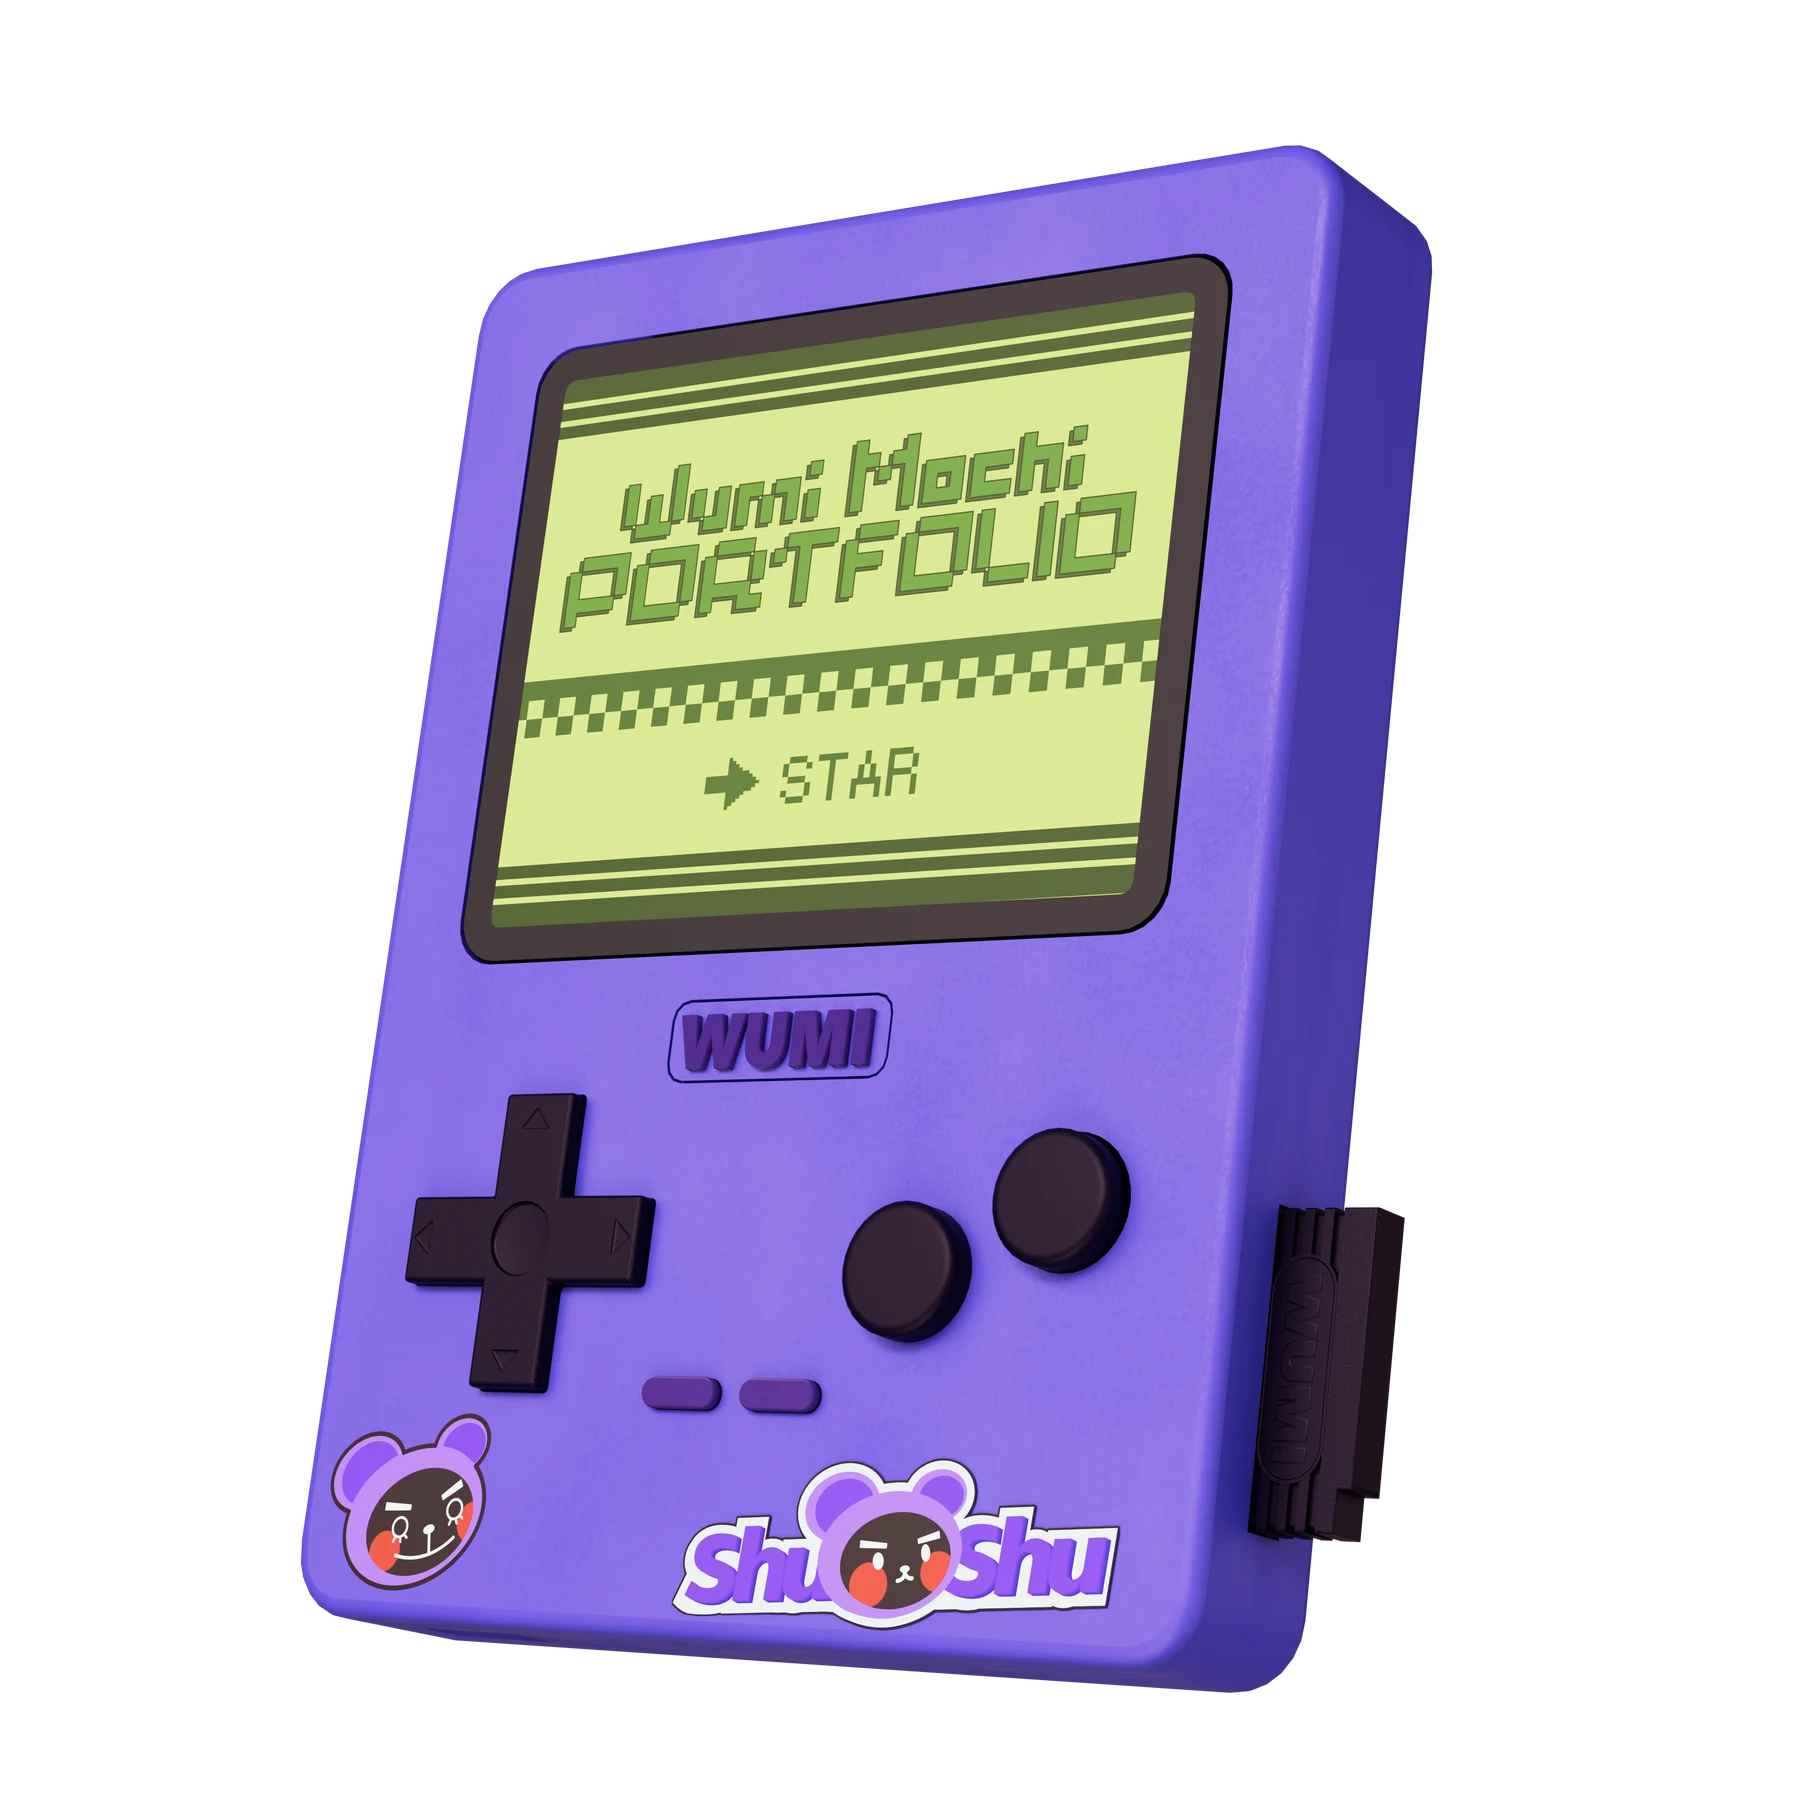
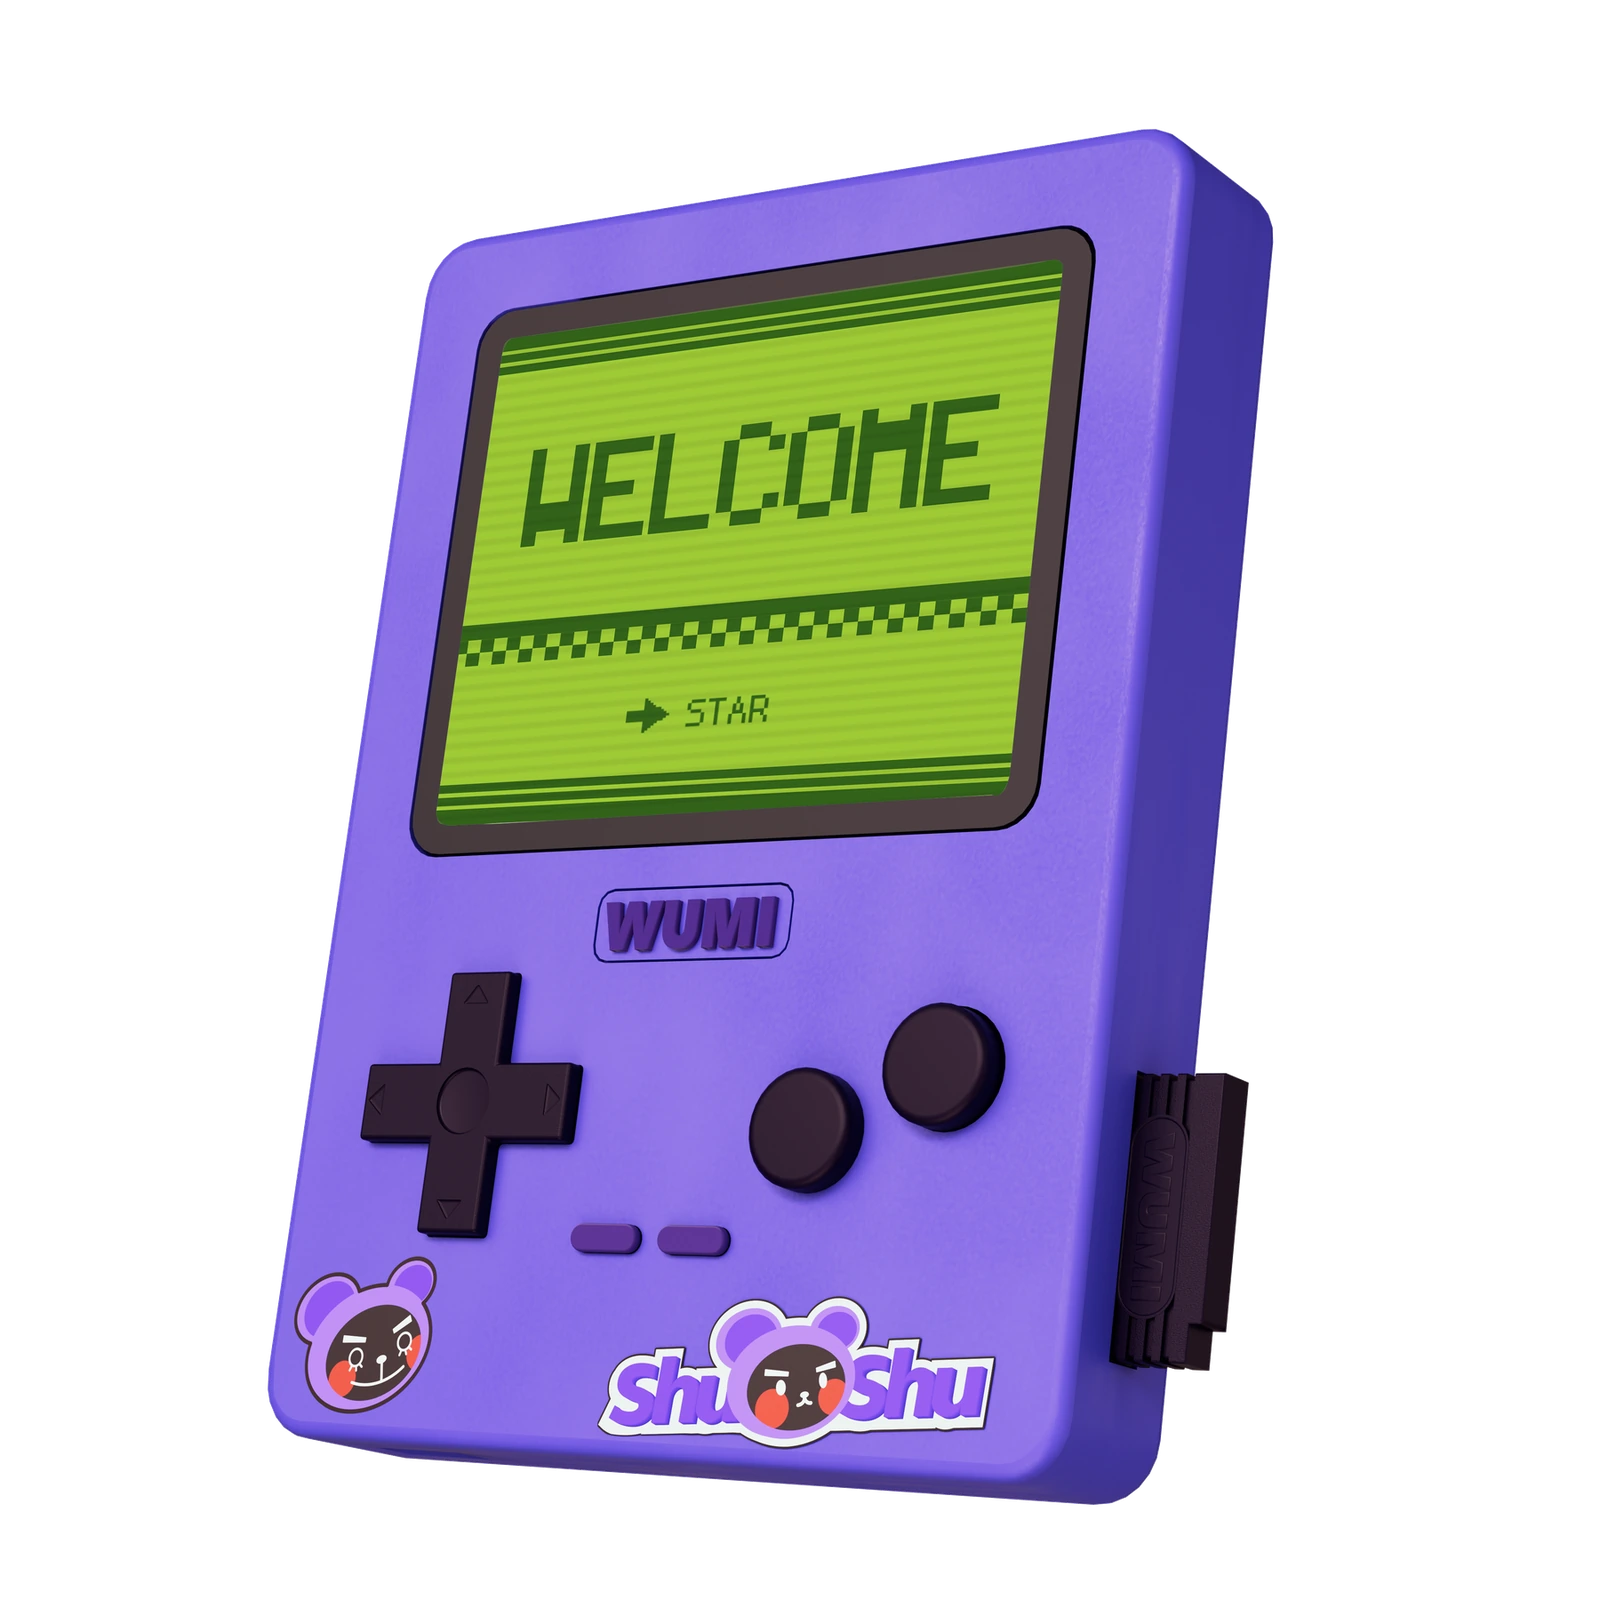
Update hero console and profile details

Changed region(s): [[0.25, 0.1562, 0.6875, 0.5312]]

diff --git a/app/globals.css b/app/globals.css
@@ -74,11 +74,11 @@ button { font:inherit; }
 .render-project { position:absolute; inset:0; display:block; background:transparent; color:white; text-decoration:none; }
 .render-project>img { display:block; width:100%; height:100%; object-fit:contain; filter:none; }
 .render-project:focus-visible { outline:0; }
-.render-screen-loading { position:absolute; inset:0; display:flex; flex-direction:column; align-items:center; justify-content:center; gap:4.5%; overflow:hidden; background:#a9d864; color:#354d20; font:700 clamp(7px,.72vw,11px)/1 monospace; letter-spacing:.16em; }
-.render-screen-loading:after { content:''; position:absolute; inset:0; opacity:.14; background:repeating-linear-gradient(0deg,transparent 0 3px,currentColor 3px 4px); pointer-events:none; }
+.render-screen-loading { position:absolute; inset:0; display:flex; flex-direction:column; align-items:center; justify-content:center; gap:15%; overflow:hidden; background:#94d12f; color:#326513; font:700 clamp(18px,2.35vw,38px)/1 'BoutiqueBitmap9x9 Gradient',monospace; letter-spacing:.04em; }
+.render-screen-loading:after { content:''; position:absolute; inset:0; opacity:.13; background:repeating-linear-gradient(0deg,transparent 0 3px,currentColor 3px 4px); pointer-events:none; }
 .render-screen-loading span,.render-screen-loading i { position:relative; z-index:1; }
-.render-screen-loading i { width:30%; height:clamp(3px,.32vw,5px); overflow:hidden; border:1px solid currentColor; }
-.render-screen-loading i:after { content:''; display:block; width:100%; height:100%; background:currentColor; transform:scaleX(0); transform-origin:left center; animation:render-screen-load 540ms cubic-bezier(.22,.75,.28,1) forwards; }
+.render-screen-loading i { width:42%; height:clamp(5px,.55vw,9px); overflow:hidden; border:1px solid currentColor; border-radius:999px; background:rgba(238,255,225,.74); box-shadow:inset 0 1px 2px rgba(33,76,13,.2); }
+.render-screen-loading i:after { content:''; display:block; width:100%; height:100%; border-radius:inherit; background:currentColor; transform:scaleX(0); transform-origin:left center; animation:render-screen-load 540ms cubic-bezier(.22,.75,.28,1) forwards; }
 .render-prev,.render-next,.render-reset { position:absolute; z-index:5; padding:0; border:0; background:transparent; color:transparent; cursor:pointer; font:700 5px/1 monospace; }
 .render-prev { left:22%; top:63%; width:6%; height:8%; }
 .render-next { left:31%; top:63%; width:6%; height:8%; }
@@ -263,14 +263,14 @@ button { font:inherit; }
 .about-section { position:relative; width:var(--frame-nav); margin:120px auto; display:grid; grid-template-columns:minmax(300px,.39fr) minmax(0,.91fr); gap:45px; align-items:start; padding:30px; overflow:hidden; border:1px solid rgba(255,255,255,.12); border-radius:30px; background:rgba(255,255,255,.028); isolation:isolate; --about-purple:#7546ef; }
 .about-section:before { content:''; position:absolute; z-index:-2; inset:0; background:linear-gradient(145deg,rgba(117,70,239,.11),rgba(255,255,255,.035) 38%,rgba(8,8,12,.38)),linear-gradient(rgba(255,255,255,.025) 1px,transparent 1px),linear-gradient(90deg,rgba(255,255,255,.025) 1px,transparent 1px); background-size:auto,34px 34px,34px 34px; backdrop-filter:blur(24px) saturate(115%); }
 .about-section:after { content:''; position:absolute; z-index:-1; left:12%; right:8%; bottom:-34%; height:62%; background:radial-gradient(ellipse at center,rgba(117,70,239,.18),transparent 66%); filter:blur(35px); pointer-events:none; }
-.about-profile-card { position:relative; min-height:610px; padding:20px 20px 22px; overflow:hidden; border:1px solid color-mix(in srgb,var(--about-purple),white 12%); background:linear-gradient(150deg,rgba(117,70,239,.16),rgba(19,17,27,.94) 42%,rgba(8,8,10,.98)); clip-path:polygon(0 0,96% 0,100% 4%,100% 96%,96% 100%,0 100%); }
-.about-profile-card:before { content:''; position:absolute; inset:11px; border:1px solid rgba(117,70,239,.15); clip-path:inherit; pointer-events:none; }
+.about-profile-card { position:relative; min-height:530px; padding:20px 20px 22px; overflow:hidden; border:1px solid color-mix(in srgb,var(--about-purple),white 12%); border-radius:24px; background:linear-gradient(150deg,rgba(117,70,239,.16),rgba(19,17,27,.94) 42%,rgba(8,8,10,.98)); }
+.about-profile-card:before { content:''; position:absolute; inset:11px; border:1px solid rgba(117,70,239,.15); border-radius:17px; pointer-events:none; }
 .about-card-head { position:relative; z-index:2; display:flex; justify-content:space-between; align-items:start; }
 .about-card-head div { display:flex; flex-direction:column; gap:6px; }
 .about-card-head b { color:var(--about-purple); font-size:13px; letter-spacing:.04em; }
 .about-card-head span { color:rgba(255,255,255,.58); font-size:10px; }
 .about-card-head>strong { padding-bottom:7px; border-bottom:1px solid var(--about-purple); color:var(--about-purple); font-size:30px; line-height:1; }
-.about-portrait-placeholder { position:relative; z-index:1; display:grid; place-items:center; min-height:330px; margin:12px 0 16px; overflow:hidden; border:1px dashed rgba(117,70,239,.42); background:linear-gradient(135deg,rgba(117,70,239,.11),transparent 48%),linear-gradient(rgba(255,255,255,.035) 1px,transparent 1px),linear-gradient(90deg,rgba(255,255,255,.035) 1px,transparent 1px),#0e0e13; background-size:auto,34px 34px,34px 34px,auto; text-align:center; }
+.about-portrait-placeholder { position:relative; z-index:1; display:grid; place-items:center; min-height:255px; margin:12px 0 12px; overflow:hidden; border:1px dashed rgba(117,70,239,.42); border-radius:16px; background:linear-gradient(135deg,rgba(117,70,239,.11),transparent 48%),linear-gradient(rgba(255,255,255,.035) 1px,transparent 1px),linear-gradient(90deg,rgba(255,255,255,.035) 1px,transparent 1px),#0e0e13; background-size:auto,34px 34px,34px 34px,auto; text-align:center; }
 .about-portrait-placeholder:before,.about-portrait-placeholder:after { content:''; position:absolute; width:34px; height:34px; border-color:var(--about-purple); opacity:.65; }
 .about-portrait-placeholder:before { top:14px; left:14px; border-top:1px solid; border-left:1px solid; }
 .about-portrait-placeholder:after { right:14px; bottom:14px; border-right:1px solid; border-bottom:1px solid; }
@@ -282,7 +282,7 @@ button { font:inherit; }
 .about-identity h3 span { font-size:.46em; letter-spacing:0; }
 .about-identity>b { color:var(--about-purple); font-size:16px; }
 .about-identity p { margin:9px 0 0; color:rgba(255,255,255,.5); font-size:9px; letter-spacing:.08em; }
-.about-contact-placeholder { position:relative; z-index:2; display:grid; grid-template-columns:1fr 1fr; gap:13px 20px; padding:16px 4px 0; }
+.about-contact-placeholder { position:relative; z-index:2; display:grid; grid-template-columns:1fr 1fr; gap:11px 18px; padding:12px 4px 0; }
 .about-contact-placeholder div { display:flex; flex-direction:column; gap:6px; min-width:0; }
 .about-contact-placeholder span { color:var(--about-purple); font:700 8px/1 monospace; letter-spacing:.1em; }
 .about-contact-placeholder b { overflow:hidden; color:rgba(255,255,255,.58); font-size:9px; white-space:nowrap; text-overflow:ellipsis; }
@@ -307,16 +307,21 @@ button { font:inherit; }
 .about-timeline h4 { margin:0 0 7px; font-size:16px; }
 .about-timeline article div>b { color:rgba(255,255,255,.64); font-size:11px; }
 .about-timeline p { margin:8px 0 0; color:rgba(255,255,255,.42); font-size:11px; line-height:1.7; }
+.about-timeline ul { margin:9px 0 0; padding-left:1.1em; color:rgba(255,255,255,.48); font-size:10px; line-height:1.58; }
+.about-timeline li+li { margin-top:4px; }
 .contact-section { position:relative; width:var(--frame-nav); margin:110px auto 80px; padding:38px 0 25px; overflow:hidden; text-align:center; isolation:isolate; scroll-margin-top:110px; }
 .contact-section:before,.contact-section:after { content:none; }
-.contact-section>h2 { margin:0 0 20px; color:#7658ff; font:400 clamp(92px,11vw,160px)/.78 'BoutiqueBitmap9x9 Gradient',monospace; font-family:'BoutiqueBitmap9x9 Gradient',monospace !important; letter-spacing:0; }
+.contact-section>h2 { margin:0 0 30px; color:#7658ff; font:400 clamp(116px,13.5vw,205px)/.76 'BoutiqueBitmap9x9 Gradient',monospace; font-family:'BoutiqueBitmap9x9 Gradient',monospace !important; letter-spacing:0; }
 .contact-section>h2 span { color:inherit; font-family:'BoutiqueBitmap9x9 Gradient',monospace !important; }
 .contact-message { max-width:700px; margin:0 auto; color:rgba(223,220,239,.62); font-size:clamp(13px,1.1vw,16px); line-height:1.7; }
-.contact-card-grid { display:grid; grid-template-columns:repeat(3,clamp(190px,19vw,235px)); justify-content:center; gap:24px; margin-top:50px; }
+.contact-card-grid { display:grid; grid-template-columns:repeat(3,clamp(190px,19vw,235px)); justify-content:center; gap:24px; margin-top:30px; }
 .contact-method-card { display:flex; aspect-ratio:1; flex-direction:column; align-items:center; justify-content:center; padding:25px 18px; border:1px solid rgba(255,255,255,.13); border-radius:26px; background:linear-gradient(145deg,rgba(255,255,255,.035),rgba(6,6,9,.55)); color:inherit; text-decoration:none; backdrop-filter:blur(18px); transition:transform .4s cubic-bezier(.2,.8,.2,1),border-color .3s ease,background .3s ease,box-shadow .4s ease; }
-.contact-method-card:hover,.contact-method-card:focus-visible { outline:0; transform:translateY(-10px); border-color:rgba(174,76,255,.5); background:linear-gradient(145deg,rgba(174,76,255,.1),rgba(255,94,111,.04)); box-shadow:0 28px 65px rgba(88,47,174,.2); }
+.contact-method-card:hover,.contact-method-card:focus-visible,.contact-method-card:active { outline:0; transform:translateY(-10px); border-color:rgba(118,88,255,.62); background:linear-gradient(145deg,rgba(118,88,255,.13),rgba(118,88,255,.035)); box-shadow:0 24px 54px rgba(118,88,255,.24); }
 .contact-method-icon { display:grid; width:60px; height:60px; margin-bottom:20px; place-items:center; border:1px solid rgba(255,255,255,.08); border-radius:16px; background:rgba(255,255,255,.09); box-shadow:inset 0 1px rgba(255,255,255,.08); color:white; font-size:26px; font-style:normal; }
-.contact-method-wechat { font:900 28px/1 monospace; letter-spacing:-.18em; }
+.contact-method-wechat { position:relative; font-size:0; }
+.contact-method-wechat:before,.contact-method-wechat:after { content:''; position:absolute; width:23px; height:17px; border:3px solid currentColor; border-radius:50%; background:radial-gradient(circle at 36% 46%,currentColor 0 1.7px,transparent 2px),radial-gradient(circle at 66% 46%,currentColor 0 1.7px,transparent 2px); }
+.contact-method-wechat:before { left:13px; top:17px; }
+.contact-method-wechat:after { right:11px; bottom:15px; transform:scale(.82); }
 .contact-method-card strong { margin-bottom:9px; font-size:18px; }
 .contact-method-card span { color:rgba(255,255,255,.5); font-size:11px; font-weight:600; }
 footer { width:var(--frame-nav); margin:0 auto; padding:26px 0 35px; display:flex; justify-content:space-between; border-top:1px solid rgba(255,255,255,.13); font:700 8px/1 monospace; letter-spacing:.12em; color:rgba(255,255,255,.38); }

diff --git a/app/page.tsx b/app/page.tsx
@@ -188,7 +188,7 @@ export default function Home() {
               <div className="render-screen-overlay" key={active.id}>
                 {isScreenLoading ? (
                   <div className="render-screen-loading" role="status" aria-live="polite">
-                    <span>LOADING</span>
+                    <span>WELCOME</span>
                     <i aria-hidden="true" />
                   </div>
                 ) : (
@@ -306,15 +306,15 @@ export default function Home() {
             <i>PHOTO TO BE ADDED</i>
           </div>
           <div className="about-identity">
-            <h3>NAME <span>/ 姓名</span></h3>
+            <h3>YANG TING <span>/ 杨婷</span></h3>
             <b>VISUAL DESIGNER</b>
-            <p>ROLE / SPECIALITY PLACEHOLDER</p>
+            <p>BRAND VISUAL · IP COMMERCIAL DESIGN</p>
           </div>
           <div className="about-contact-placeholder">
-            <div><span>LOCATION</span><b>CITY / 城市</b></div>
-            <div><span>EDUCATION</span><b>SCHOOL / MAJOR</b></div>
-            <div><span>E-MAIL</span><b>EMAIL PLACEHOLDER</b></div>
-            <div><span>SOCIAL</span><b>ACCOUNT PLACEHOLDER</b></div>
+            <div><span>LOCATION</span><b>GUANGZHOU / 广州</b></div>
+            <div><span>EDUCATION</span><b>工业设计 / 2018—2022</b></div>
+            <div><span>E-MAIL</span><b>310919644@qq.com</b></div>
+            <div><span>WECHAT</span><b>18813893925</b></div>
           </div>
         </div>
 
@@ -324,17 +324,17 @@ export default function Home() {
             <i aria-hidden="true">✦</i>
           </div>
           <div className="about-intro-label"><span>DESIGNER PROFILE</span><i /></div>
-          <p className="about-placeholder-copy">个人简介内容将在资料确认后补充。这里将用于介绍设计背景、项目经验、擅长领域，以及个人的视觉表达方向与工作方式。</p>
+          <p className="about-placeholder-copy">具备品牌视觉设计与 IP 商业化项目经验，熟悉从创意概念、视觉策略到设计落地的完整流程。参与新消费品牌、正版 IP 联名、食玩盲盒及线下展陈等项目，能够结合品牌定位与用户需求进行视觉表达与方案输出。擅长品牌视觉体系搭建、电商视觉设计、IP 角色延展及商业场景应用，具备较强的视觉整合能力与项目推进能力，能够在团队协作中高效完成设计方案落地。</p>
           <div className="about-experience-block">
             <h3><b>01</b> EXPERIENCE <i aria-hidden="true">✣</i></h3>
             <div className="about-timeline">
               <article>
-                <time>20XX.XX — 20XX.XX</time>
-                <div><h4>COMPANY NAME / 公司名称</h4><b>JOB TITLE · ROLE PLACEHOLDER</b><p>工作内容与项目经历将在资料确认后补充。</p></div>
+                <time>2025.12 — 2026.05</time>
+                <div><h4>广州灵动创想科技有限公司</h4><b>平面设计师</b><ul><li>独立完成食玩的线上线下视觉方案，高效产出产品详情长图、宣传物料等多样化设计内容，精准匹配 IP 调性与产品卖点。</li><li>参与品牌展会快闪店、终端陈列展陈的空间视觉设计，打造兼具商品展示与打卡互动的线下消费场景。</li><li>跟进设计落地全流程，熟悉包装材质特性与印刷工艺，维护 IP 衍生产品的视觉语言一致性。</li></ul></div>
               </article>
               <article>
-                <time>20XX.XX — 20XX.XX</time>
-                <div><h4>COMPANY NAME / 公司名称</h4><b>JOB TITLE · ROLE PLACEHOLDER</b><p>工作内容与项目经历将在资料确认后补充。</p></div>
+                <time>2023.03 — 2025.06</time>
+                <div><h4>广州昌邻餐饮管理有限公司</h4><b>平面设计师</b><ul><li>独立完成品牌新品上市、日常营销活动的线上线下视觉方案，高效产出海报、Banner、宣传单页等多样化物料。</li><li>多次负责参与项目周边新品设计，了解包装材质特性及后期印刷工艺，深入参与从概念构思到落地的全流程。</li><li>维护与拓展品牌视觉形象，确保品牌设计语言的一致性，并灵活应对部门临时性设计需求。</li></ul></div>
               </article>
             </div>
           </div>
